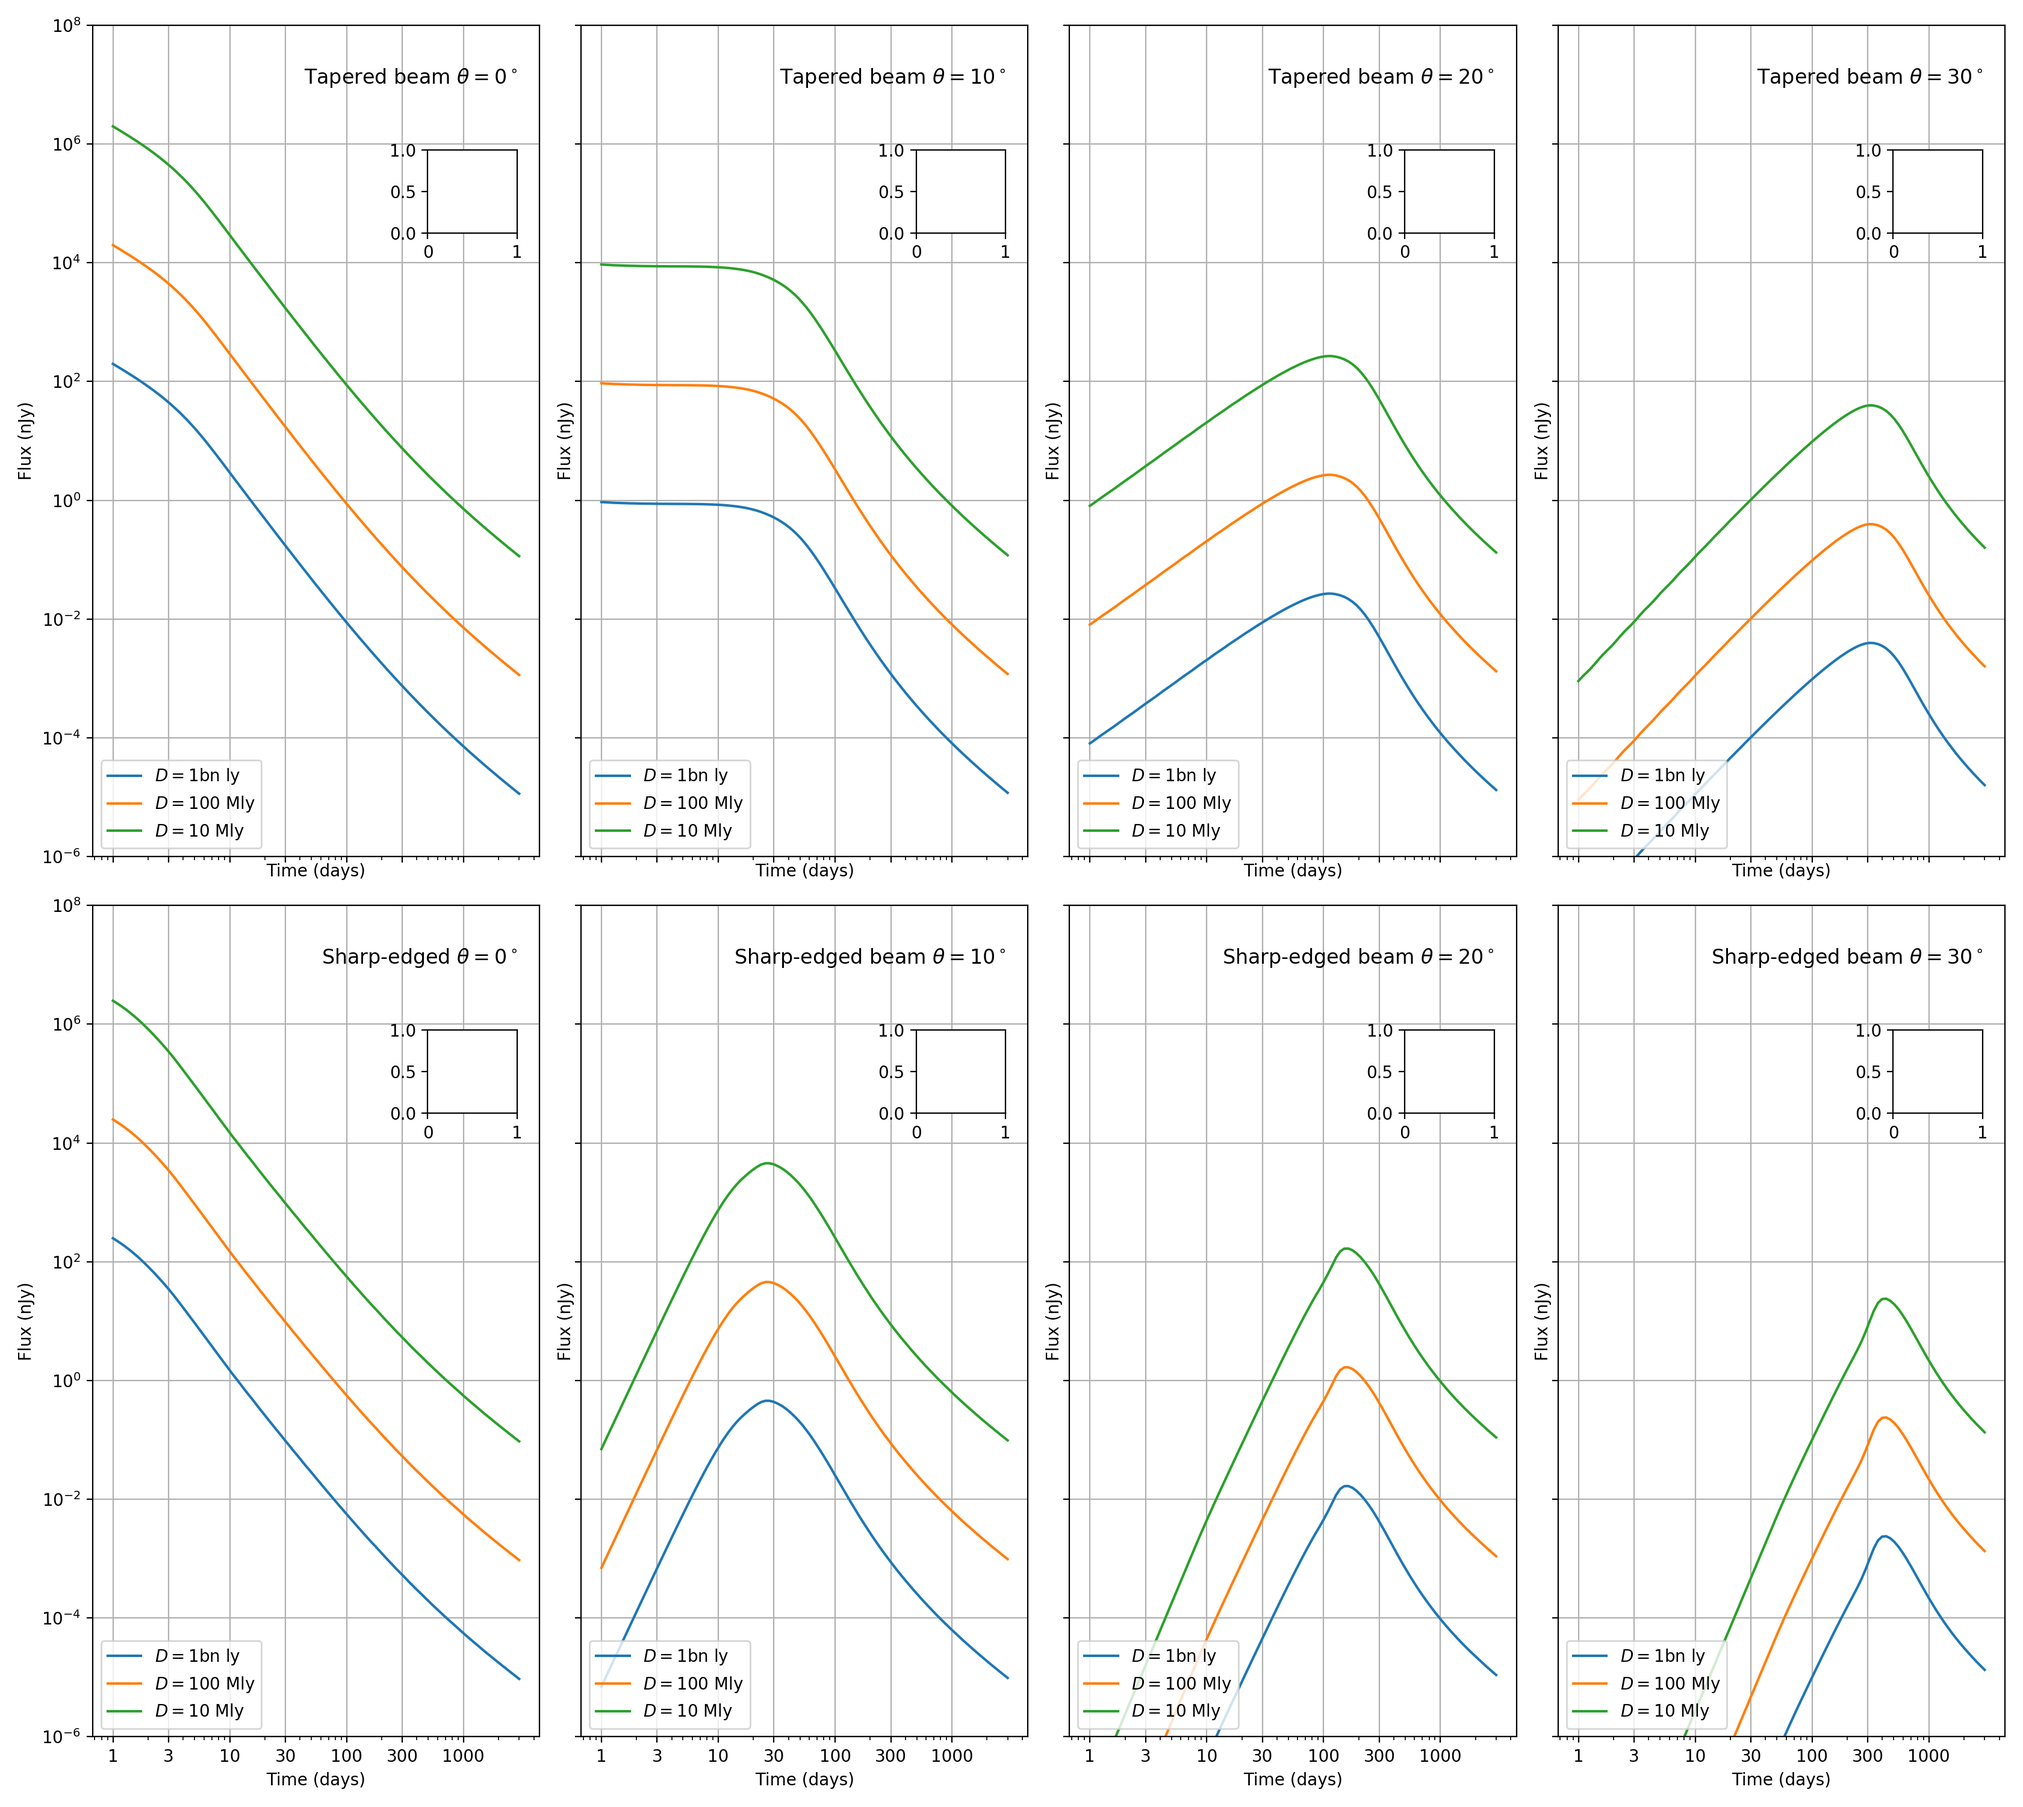
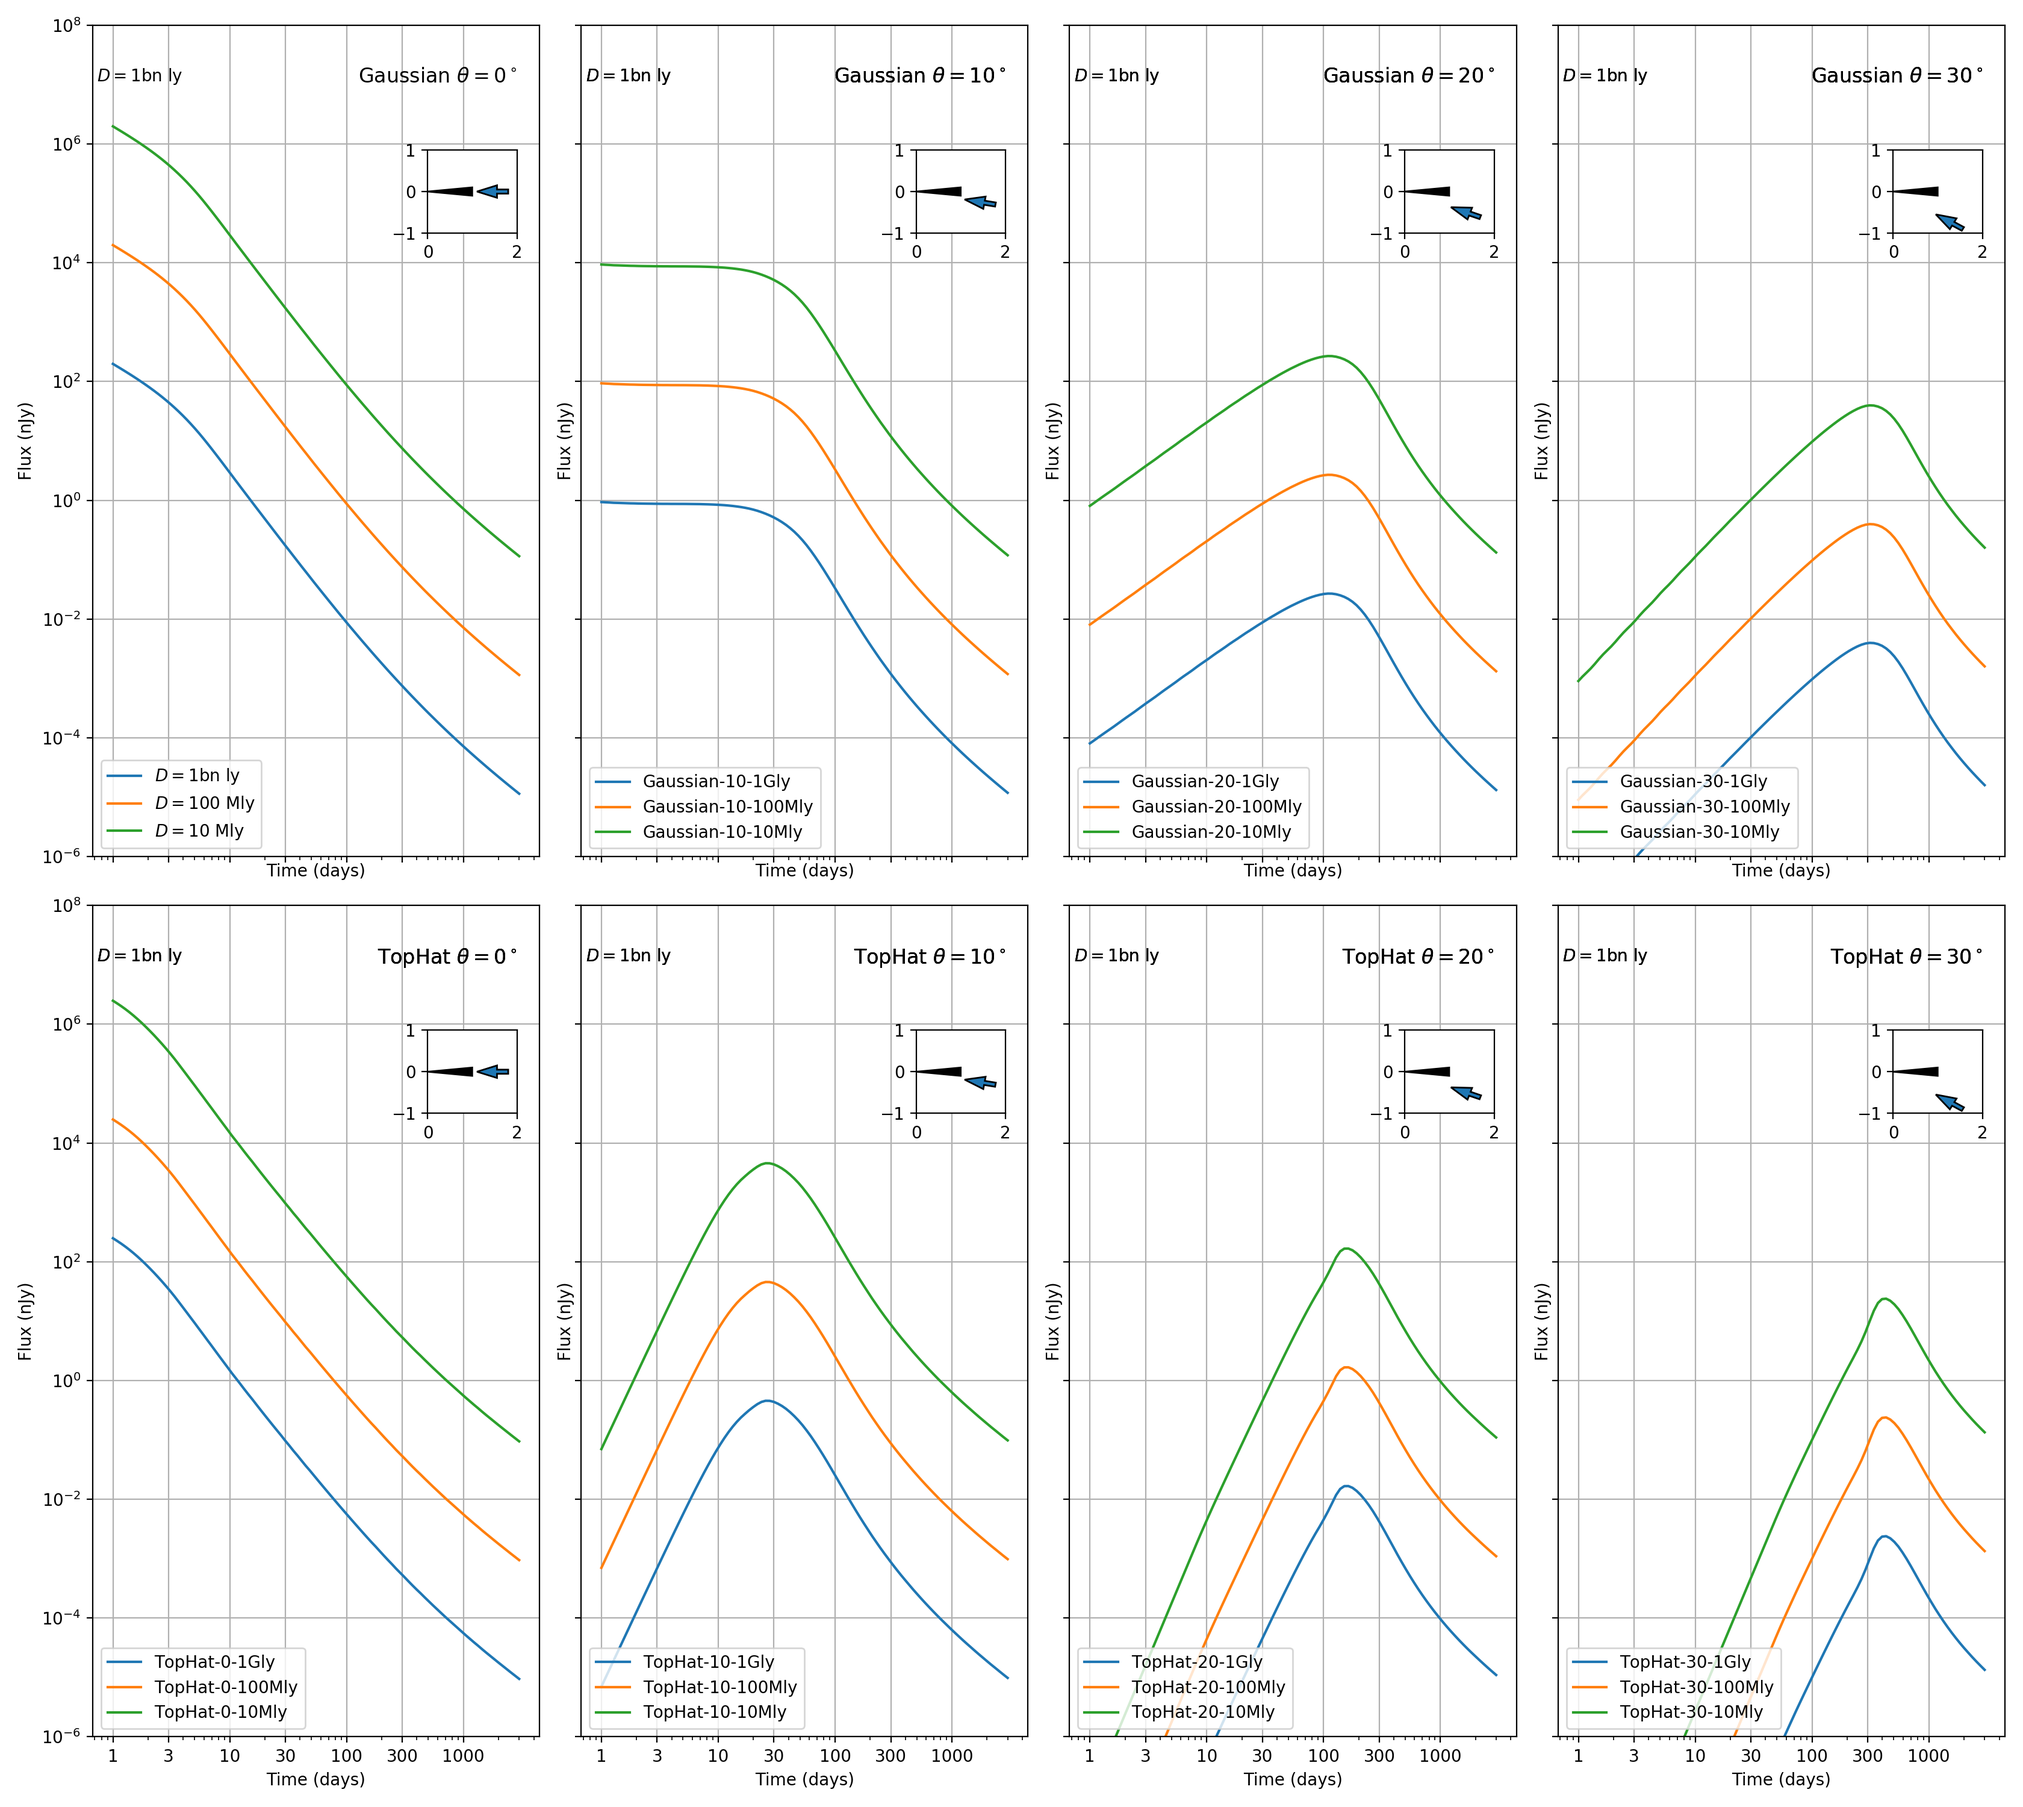
added xray module

diff --git a/xray/python/plotGrid_BeamShape.py b/xray/python/plotGrid_BeamShape.py
@@ -1,4 +1,8 @@
-import os
+import sys,os,importlib
+sys.path.insert(0,os.path.join('../'))
+import xray
+importlib.reload(xray)
+
 import numpy as np
 import matplotlib.pyplot as plt
 import afterglowpy as grb
@@ -82,7 +86,7 @@ models={
         'pars':{'jetType':grb.jet.TopHat,'thetaObs':np.deg2rad(30),'d_L':1e7*u.lyr.to(u.cm)}},
 }
 
-models={
+models2={
     'Gaussian-0-1Gly':{'label1':r'$D=$1bn ly','label2':r'Tapered beam $\theta=0^\circ$','plot':0,'legend':r'$D=$1bn ly',
         'pars':{'jetType':grb.jet.Gaussian,'thetaObs':np.deg2rad(0),'d_L':1e9*u.lyr.to(u.cm)}},
         
@@ -144,6 +148,7 @@ for m in models:
         pars[p]=models[m]['pars'][p]
     print('theta={:.2f}, d_L={:.2f} Mpc'.format(np.rad2deg(pars['thetaObs']),pars['d_L']*u.cm.to(u.Mpc)))
     models[m]['Fnu'] = grb.fluxDensity(t, nu, **pars)
+    models[m]['Fnu']
     # noise=np.random.normal(size=len(t[:,0]))*1e-9
     # models[m]['Fnu'][:,0] = models[m]['Fnu'][:,0]+np.abs(noise)
 
@@ -154,6 +159,7 @@ tday = t * grb.sec2day
 
 fig, axes = plt.subplots(2,4,num=1,figsize=(25,15),clear=True,sharex='all',sharey='all')
 p=0
+insPlotted=np.zeros(50)
 for m in models:
     plot=models[m]['plot']
     x=int(plot/4)
@@ -163,27 +169,7 @@ for m in models:
     color=models[m].get('color',None)
     label=models[m].get('legend',m)
     # ax.plot(tday[:,0], models[m]['Fnu'][:,0]*1e6, ls='-', label=label)
-    ax.plot(tday[:,0], models[m]['Fnu'][:,0]*1e6, ls='-', label=r'$D=$1bn ly')
-    ax.plot(tday[:,0], models[m]['Fnu'][:,0]*1e8, ls='-', label=r'$D=$100 Mly')
-    ax.plot(tday[:,0], models[m]['Fnu'][:,0]*1e10, ls='-', label=r'$D=$10 Mly')
-    ax.set_xscale('log')
-    ax.set_yscale('log')
-    ax.set_ylim(1e-6,1e8)
-    ax.set_xlabel('Time (days)')
-    ax.set_ylabel('Flux (nJy)')
-    # ax.set_ylabel(r'$F_\nu$ (mJy)')
-    dayticks=[1,3,10,30,100,300,1000]
-    ax.set_xticks(dayticks)
-    ax.set_xticklabels(dayticks)
-    # ax.set_xticklabels(['1 day','1 week','1 month','6 months','1 year'])
-    # if 'label1' in models[m]:
-    #     ax.annotate(models[m]['label1'],(0.01,0.95),xycoords='axes fraction',va='top')
-    if 'label2' in models[m]:
-        ax.annotate(models[m]['label2'],(0.95,0.95),xycoords='axes fraction',va='top',ha='right',fontsize='large')
-    ax.grid(True)
-    ax.legend(loc='lower left')
-    
-    ax.inset_axes([0.75,0.75,0.2,0.1])
+    xray.plotModels(ax,tday,models[m],label=label,fact=1e6)
     
     # ax[x,y].set_title(titles[p])
     # if p==0:

diff --git a/xray/python/plotRandom_BeamShape.py b/xray/python/plotRandom_BeamShape.py
@@ -1,4 +1,8 @@
-import os
+import sys,os,importlib
+sys.path.insert(0,os.path.join('../'))
+import xray
+importlib.reload(xray)
+
 import numpy as np
 import matplotlib.pyplot as plt
 import afterglowpy as grb
@@ -91,20 +95,21 @@ for m in models:
     x=int(p/3)
     y=p%3
     ax=axes[x,y]
-    ax.plot(tday[:,0], models[m]['Fnu'][:,0], ls='-', label=m)
-    ax.set_xscale('log')
-    ax.set_yscale('log')
-    # ax.set_ylim(1e-10,1e-3)
-    ax.set_xlabel('time')
-    ax.set_ylabel('Flux (mJy)')
-    # ax.set_ylabel(r'$F_\nu$ (mJy)')
-    ax.set_xticks([1,7,30,365])
-    ax.set_xticklabels(['day','wk','mth','yr'])
-    ax.annotate(r'{:.1f}$^o$'.format(np.rad2deg(models[m]['pars']['thetaObs'])),(0.01,0.95),xycoords='axes fraction',va='top')
-    ax.annotate('{:.1f} Mpc'.format(models[m]['pars']['d_L']*u.cm.to(u.Mpc)),(0.99,0.95),xycoords='axes fraction',ha='right',va='top')
-    # ax[x,y].set_title(titles[p])
-    # if p==0:
-    #     ax[x,y].legend()
+    xray.plotModels(ax,tday,models[m],ylim=[1e-10,1e-3])
+    # ax.plot(tday[:,0], models[m]['Fnu'][:,0], ls='-', label=m)
+    # ax.set_xscale('log')
+    # ax.set_yscale('log')
+    # # ax.set_ylim(1e-10,1e-3)
+    # ax.set_xlabel('time')
+    # ax.set_ylabel('Flux (mJy)')
+    # # ax.set_ylabel(r'$F_\nu$ (mJy)')
+    # ax.set_xticks([1,7,30,365])
+    # ax.set_xticklabels(['day','wk','mth','yr'])
+    # ax.annotate(r'{:.1f}$^o$'.format(np.rad2deg(models[m]['pars']['thetaObs'])),(0.01,0.95),xycoords='axes fraction',va='top')
+    # ax.annotate('{:.1f} Mpc'.format(models[m]['pars']['d_L']*u.cm.to(u.Mpc)),(0.99,0.95),xycoords='axes fraction',ha='right',va='top')
+    # # ax[x,y].set_title(titles[p])
+    # # if p==0:
+    # #     ax[x,y].legend()
     p=p+1
 
 fig.tight_layout()

diff --git a/xray/python/xray.py b/xray/python/xray.py
@@ -1,0 +1,37 @@
+import numpy as np
+
+def plotModels(ax,tday,models,**kwargs):
+
+    if isinstance(models,dict):
+        mods=[models]
+    else:
+        mods=models
+    
+    label=kwargs.get('label',None)
+    ylim=kwargs.get('ylim',[1e-6,1e8])
+    fact=kwargs.get('fact',1)
+    for m in range(len(mods)):
+        color=mods[m].get('color',None)
+        # label=mods[m].get('legend',None)
+        # ax.plot(tday[:,0], models[m]['Fnu'][:,0]*1e6, ls='-', label=label)
+        # print ('label:',label)
+        ax.plot(tday[:,0], mods[m]['Fnu'][:,0]*fact, ls='-', label=label)
+        ax.set_xscale('log')
+        ax.set_yscale('log')
+        ax.set_ylim(ylim[0],ylim[1])
+        ax.set_xlabel('Time (days)')
+        ax.set_ylabel('Flux (nJy)')
+        # ax.set_ylabel(r'$F_\nu$ (mJy)')
+        dayticks=[1,3,10,30,100,300,1000]
+        ax.set_xticks(dayticks)
+        ax.set_xticklabels(dayticks)
+        # ax.set_xticklabels(['1 day','1 week','1 month','6 months','1 year'])
+        if 'label1' in mods[m]:
+            ax.annotate(mods[m]['label1'],(0.01,0.95),xycoords='axes fraction',va='top')
+        if 'label2' in mods[m]:
+            ax.annotate(mods[m]['label2'],(0.95,0.95),xycoords='axes fraction',va='top',ha='right',fontsize='large')
+        ax.grid(True)
+        ax.legend(loc='lower left')
+    
+    return
+    
